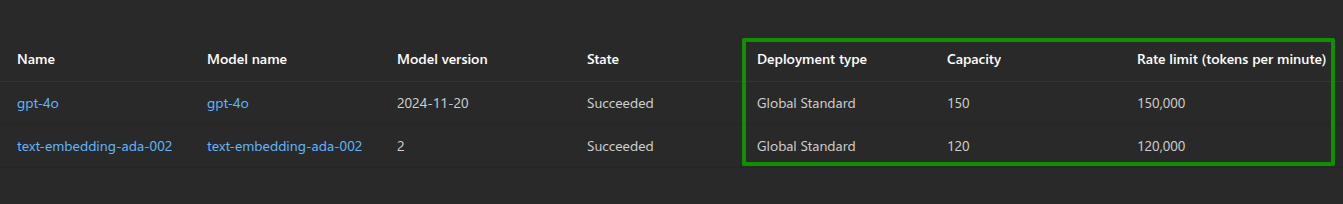
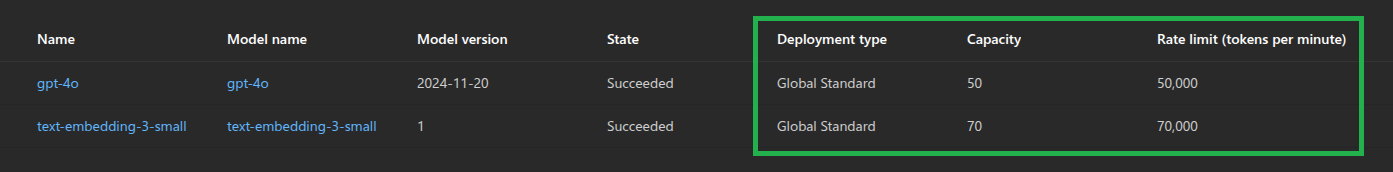
removed the permissions, added error section, updated the model quota image

diff --git a/docs/02-Setup/05-Provision-And-Deploy.md b/docs/02-Setup/05-Provision-And-Deploy.md
@@ -68,41 +68,6 @@ You should change the default postgres authentication credentials. This serves a
 
         The credentials shown above are only for workshop or learning purposes. You must change these parameters as best security practice if you intend to deploy this solution in production.
 
-## Provide Permissions to Hooks
-
-Before proceeding with deployment of infra, you must provide permissions to the `azd-hooks` to make them executable and perform the necessary actions.
-
-!!! info "Azd hooks for custom workflow"
-
-    `azd-hooks` are configurable scripts defined in `azure.yaml` file that run automatically before or after key lifecycle events like provision, build, deploy etc. allowing you to insert custom logic into your `azd` workflow. 
-
-    You can apply hooks globally or per-service, supporting execution on multiple environments like posix, Windows.
-
-### Permissions for Windows
-
-1. Execute this command to grant the permissions to the current session to be able to execute `pwsh` scripts located in the `azd-hooks` directory.
-
-    ```pwsh
-    Set-ExecutionPolicy -Scope Process -ExecutionPolicy Bypass
-    ```
-
-### Permissions for Unix-like Environment 
-
-1. If you are using unix-like environment such as (WSL, Cygwin, MinGW etc.) on Windows, execute the following command to grant permissions to the current session for execution of scripts. 
-    
-    ```bash
-    pwsh -NoProfile -Command "Set-ExecutionPolicy -Scope CurrentUser -ExecutionPolicy Bypass"
-    ```
-
-### Permissions for Linux/macOS
-
-1. If the OS that you are working with is Linux or macOS, then in order to provide permissions to `azd-hooks` scripts, execute the following commands to make the scripts executable.
-
-    ```bash
-    sudo chmod +x azd-hooks/predeploy.sh
-    sudo chmod +x azd-hooks/preprovision.sh
-    sudo chmod +x azd-hooks/postprovision.sh
-    ```
 
 ## Provision Azure Resource Without Apps Deployment
 
@@ -123,6 +88,16 @@ You are now ready to provision your Azure resources without deployment of Agenti
             - Select the Azure region into which resources should be deployed using the up and down arrow keys.
             - Select the Azure region into which Azure OpenAI models should be deployed using the up and down arrow keys.        
         - **Enter a value for the `resourceGroupName`**: Enter `rg-dev`, or a similar name.
+
+
+    !!! info "Pre-deployment Validation Checks"
+
+        Before the `azd` workflow proceeds, checks are performed in the selected region and recommendations are generated on failure for following cases to ensure that the deployment is successful:
+        
+        - Azure Flexible Server for PostgreSQL SKU
+        - Azure Container Apps quota
+        - azd env name    
+
 
 2. **Input your choice for the Azure Container Apps deployment**: Enter `no` to skip Azure Container Apps deployment and press enter.
 
@@ -149,37 +124,36 @@ You are now ready to provision your Azure resources without deployment of Agenti
         | Azure Flexible server for PostgreSQL  |
         | Azure OpenAI Service                  |
 
-    !!! failure "Deployment failed: The resource entity provisioning state is not terminal"
-
-        It's possible that when Azure Bicep deployment attempts to create resources, error may occur when the soft deleted resources are in process to be purged from Azure backend. If you encounter this error, simply re-run the `azd up` command.
 
 3. On successful completion you will see a `SUCCESS: Your up workflow to provision and deploy to Azure completed in xx minutes xx seconds.` message on the console.
 
 ## Troubleshooting Errors
- 
-### Continue with Current Deployment
 
-1. If your deployment failed with an error such as validation error, you must name the `azd` env with [rules and restrictions](https://learn.microsoft.com/en-us/azure/azure-resource-manager/management/resource-name-rules) for naming conventions. To fix this error, you can create a new `azd` env with `azd env new` with supported naming convention and proceed with the deployment steps mentioned in previous section.
+### Errors During azd Workflow
 
-    !!! danger "Validation Error"
+1. **Error: "Deployment failed: The resource entity provisioning state is not terminal"**
+    
+    If your deployment faces an error like such as "The resource entity provisioning state is not terminal", try running your deployment again using `azd up`.
+    
+    ```
+    ERROR: error executing step command 'provision': deployment failed: error deploying infrastructure: deploying to resource group: Deployment Error Details: RequestConflict: Cannot modify resource with id '/subscriptions/{sub-id}/resourceGroups/{rg-name}/providers/Microsoft.CognitiveServices/accounts/{Resourcename}' because the resource entity provisioning state is not terminal. Please wait for the provisioning state to become terminal and then retry the request.
+    ```
+    
+2.  **Error: "Validation Error"**
+    
+    If your deployment failed with an error such as validation error, you must name the `azd` env with [rules and restrictions](https://learn.microsoft.com/en-us/azure/azure-resource-manager/management/resource-name-rules) for naming conventions. To fix this error, you can create a new `azd` env with `azd env new` with supported naming convention and proceed with the deployment steps mentioned in previous section.
 
-        InvalidTemplateDeployment: The template deployment 'dev' is not valid according to the validation procedure.
-
-2. If your deployment has failed due to region or quota availability and you want to continue with current deployment in another region, you must purge the existing deployment using `azd down --purge` command before proceeding with another deployment. To set the new region for Azure OpenAI models in current `azd` deployment, you can use the following command:
-
-    ```bash
-    azd env set AZURE_OPENAI_LOCATION <region>
+    ``` 
+    InvalidTemplateDeployment: The template deployment 'dev' is not valid according to the validation procedure.
+    
     ```
 
-    !!! warning "Soft Delete Resources consume quota"
+    
 
-        If the resource destruction does not complete, interrupted or `--purge` flag is not used, the resources may still exist in the your subscription as soft deleted resources which can be seen from Azure portal such as deleted OpenAI models in `Manage deleted resources`, then these resources will consume OpenAI quota hindering you from creating new deployment. It is very important to permanently delete these resources either from Azure portal or through azure CLI before proceeding with another deployment. 
 
-        ```bash
-        az cognitiveservices account purge --location <region> --resource-group <resource-group> --name <openai-resource-name> 
-        ```
+3.  **Error: "Network Issues"**
 
-3. At any point during provisioning of resources, the deployment can fail due to transient errors or network issues. For such occurrences, you can take either of following actions: 
+    At any point during provisioning of resources, the deployment can fail due to transient errors or network issues. For such occurrences, you can take either of following actions: 
     
     - Restart the deployment with `azd up` command.
 
